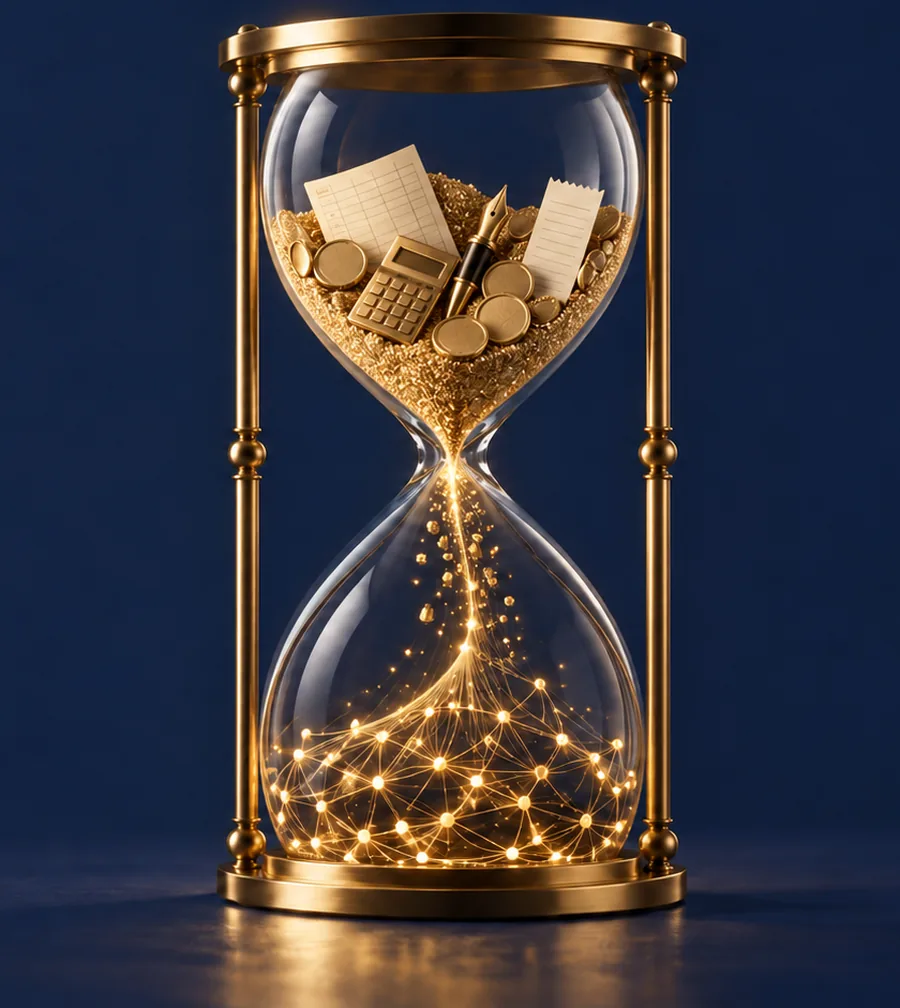
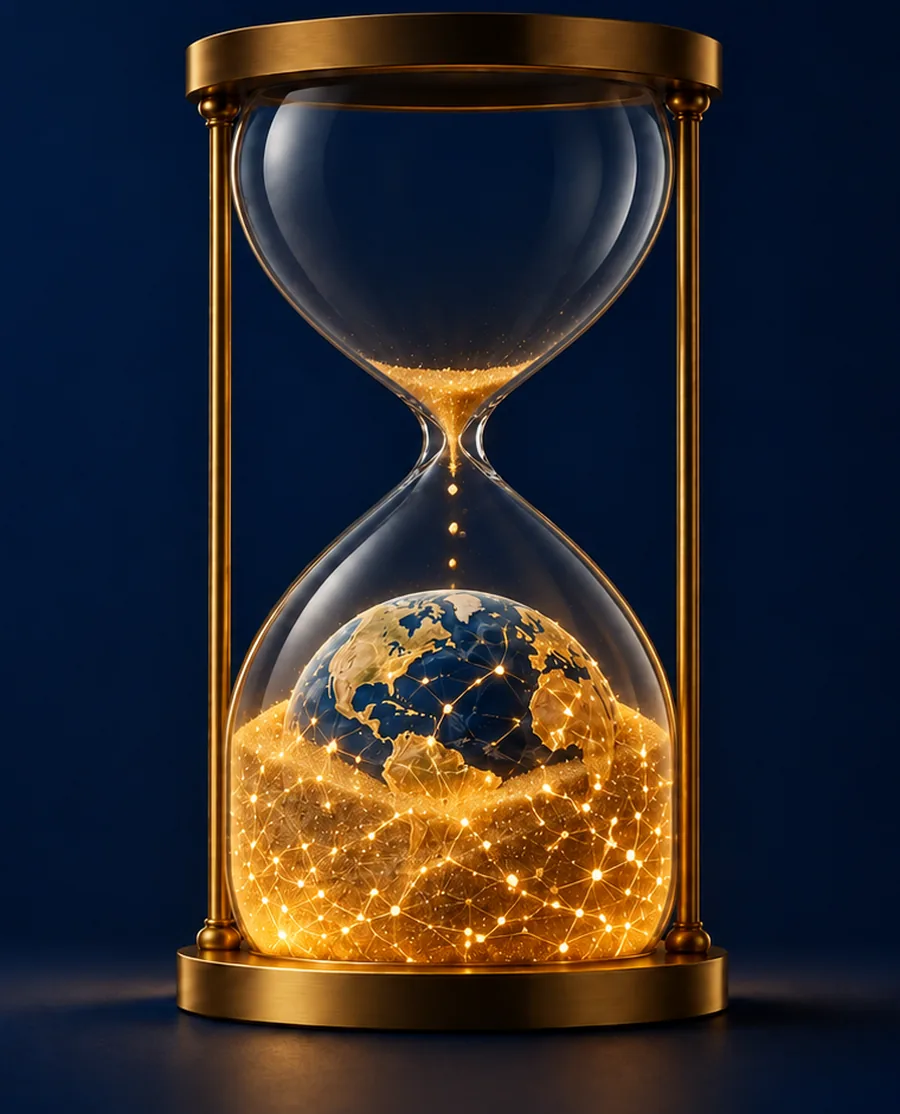
Learn page: replace the finance hourglass with the last-grains Earth hourglass, on the page and its preview card

diff --git a/learn/index.html b/learn/index.html
@@ -75,7 +75,7 @@
 <body>
 <div class="wrap">
 <div class="header"><div class="eyebrow"><a href="https://mahdioneill.github.io/ai-fluency/" style="color:inherit;text-decoration:none">Patrick Mahdi O’Neill · AI Fluency Training · Dubai</a></div><div class="title">How to <em>learn AI</em></div><div class="tagline">Practical ways to learn AI for work, with a few prompts to try. Start with one task you understand, a tool your organisation permits, and a result you can check. Choose a method below, or jump to <a href="#routine">the weekly routine</a>.</div><div class="nav"><a href="#why">Why</a><a href="#habit">A habit</a><a href="#layers">Three layers</a><a href="#ways">Ways to learn</a><a href="#routine">Weekly routine</a><a href="#signs">Signs</a></div></div>
-<div class="hero"><div class="hero-text"><div class="l1">AI is inevitable.</div><div class="l2">Dread it. Deny it. Run from it.<br>It arrives all the same.</div><div class="ask">Are you ready?</div></div><img src="hourglass.webp" width="900" height="1008" alt="A brass hourglass on a navy background: finance objects in the top bulb turn into a glowing network of light as the sand falls." fetchpriority="high" decoding="async"></div>
+<div class="hero"><div class="hero-text"><div class="l1">AI is inevitable.</div><div class="l2">Dread it. Deny it. Run from it.<br>It arrives all the same.</div><div class="ask">Are you ready?</div></div><img src="hourglass.webp" width="900" height="1114" alt="A brass hourglass on a navy background: the last grains of sand fall from the top bulb onto the Earth below, already covered in a glowing network of light." fetchpriority="high" decoding="async"></div>
 <main><h2 id="why">Why are you learning this?</h2>
 <p>Your reason for learning helps you decide where to start.</p>
 <p><b>Interest or curiosity.</b> You want to understand what these tools can do. Try <a href="https://mahdioneill.github.io/ai-fluency/challenge/" target="_blank" rel="noopener">the challenge</a>, read around a topic and explore an approved tool. Follow what interests you.</p>
